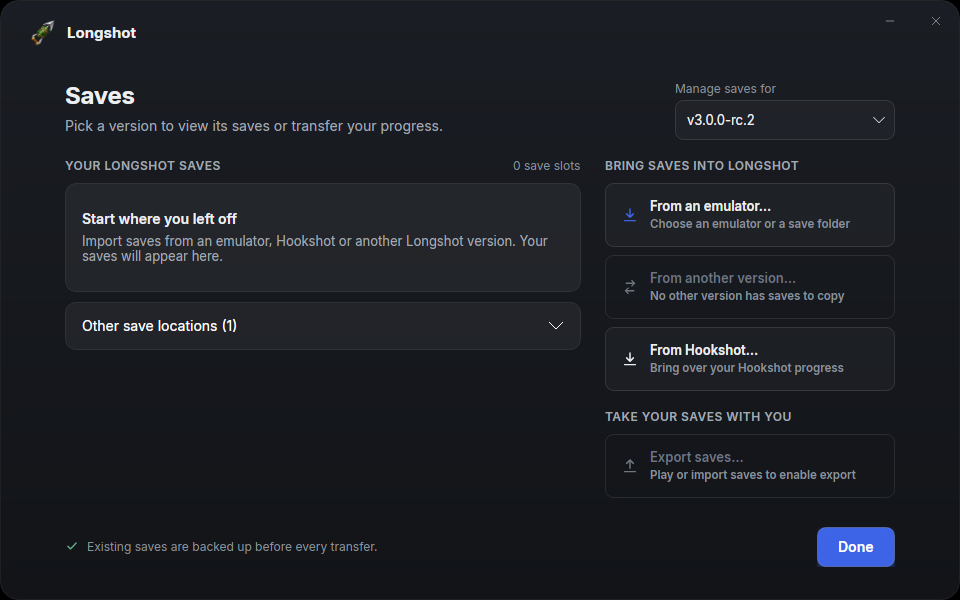
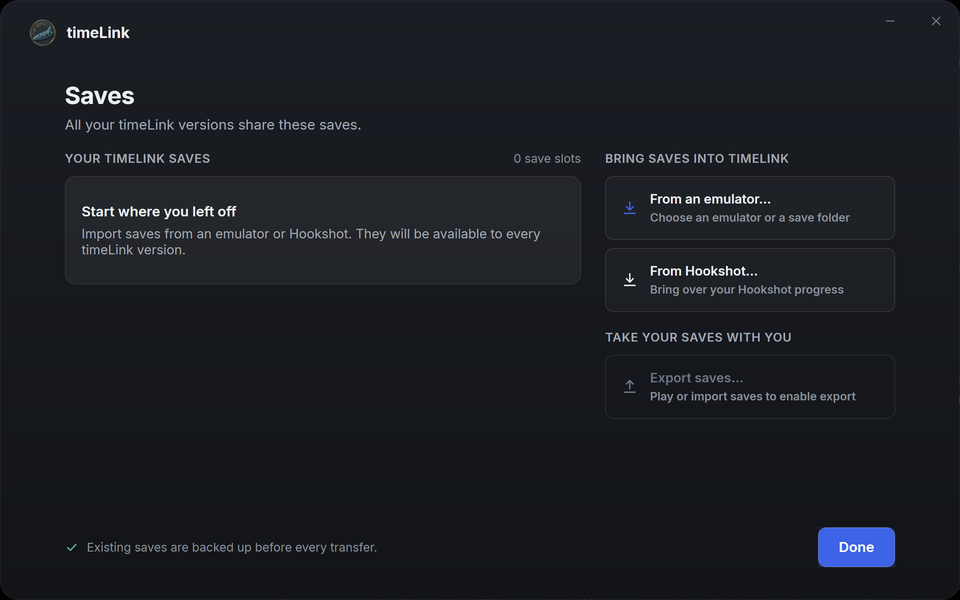
docs(launcher): the screenshots show this launcher, not the old Longshot
Every picture under launcher/docs/ was taken before the rename: the title bar read 'Longshot', the icon was the old bean, and the pages had moved on. Taken again from a running launcher, each on its own isolated home and profile (TIMELINK_LAUNCHER_HOME, USERPROFILE, APPDATA and LOCALAPPDATA pointed at a scratch folder), so no build, save or folder of this PC is in any of them.

The nine in docs/screenshots/ had never been linked from anything since they were added. Five were taken again and are now shown in docs/saves.md, which tells players what the Saves page does. The other five are gone rather than replaced: the requirements verdict is read from the hardware the launcher runs on with nothing to override it, so its four colour states cannot be produced on one PC, and the Linux Saves page needs Linux. Nothing links to a deleted picture.

launcher/CONTRIBUTING.md now says where the pictures must be taken from, and docs/known-issues.md records the change.

diff --git a/docs/known-issues.md b/docs/known-issues.md
@@ -180,6 +180,7 @@ invisible — the install then fails on a tool the lock appears to list. BOMs we
 |---|---|
 | | **`HookshotSaves.cs` / `HookshotSettings.cs`: a real adaptation, not a rename** | Correcting an earlier note that called these untouched. They read Hookshot's layout and write timeLink's: `TargetFiles` is `timeLink_options.ini` and `language.txt`, never a `hookshot*` name; `Merge` keeps the build's own lines and re-writes the marker so timeLink migrates the imported rows as it would Hookshot's, with a `Migrated` table of which rows moved at which version. Wired into the UI (`HookshotImportViewModel`, `HookshotSettingsViewModel`) and covered by 64 core checks: preview, a running game refused, consent before replacing, a backup of the whole old file, the source left byte-identical. Nothing left to adapt. What was missing was a guard on the one number they share with the game, now added: `tests/test_hookshot_options_version.py` fails if `gpu/vk/vk_menu.cpp` starts writing a version `HookshotSettings.cs` was not checked against, if Hookshot's accepted ceiling moves, or if a `Migrated` row names a later version than the game has |
 | **Icon and branding assets** | `Assets/timeLink.ico` and `timeLink.png` are timeLink's own artwork, supplied by HanYolo1 on 2026-11-16 and replacing the Longshot logo that came with the fork. `launcher/scripts/make_icon.py` regenerates the launcher's `.ico` from the png, and `nx2/make_icon.py` the builder setup's (`builder/setup/timeLink.ico`, which `tests/test_setup_icon.py` holds to the logo). `assets/PROVENANCE.md` records the origin and what replacing it again takes. The `assets/branding/` images that came with the fork (the bean characters and the team logo) were deleted: they were website-only, unlicensed, and their provenance file wrongly described them as supplied by this fork's maintainer |
+| **The launcher screenshots** | Every picture in `launcher/docs/` was taken before the rename and showed the old logo and "Longshot" in the title bar. All of them have been taken again from a running launcher on an isolated home (`launcher/CONTRIBUTING.md` says how). The four `requirements-*.png` and `saves-linux.png` were deleted rather than replaced: the requirements verdict is read from the hardware the launcher runs on, with nothing to override it, so its four states cannot be produced on one PC, and the Linux Saves page needs Linux. Nothing links to a deleted picture |
 | **No CDN** | `CdnFetcher` was deleted (it fronted MagicBeanDev's Cloudflare edge). Release files and lists now come from GitHub directly. No replacement is needed, but a slow GitHub is not cached |
 | **Shaders are not forced by the launcher** | The launcher passes no `--compile-shaders`, so the level comes from `make_game.py`'s default or the build folder's own `compile_shaders=`. It works (`most`), but an explicit flag would make the choice visible in the command line and immune to a future change of default |
 | **Fixtures name a key that is not trusted** | `launcher/tests/fixtures/release/test-key.pem` is deliberately public; `ReleaseKeys.BuiltIn` is asserted not to list it |

diff --git a/launcher/CONTRIBUTING.md b/launcher/CONTRIBUTING.md
@@ -45,6 +45,17 @@ to it too.
 - **Packages are pinned.** `Directory.Packages.props` pins each package exactly and `packages.lock.json` records what
   they bring; CI restores in locked mode. A package change updates the lock files in the same pull request.
 - **Two platforms.** Windows and Linux (and the Steam Deck) from the same code; keep paths portable and UTF-8.
+- **The screenshots are the launcher's own, and go stale quietly.** `docs/images/` (the home, Settings, and the two
+  Hookshot imports, shown in [README.md](README.md)) and `docs/screenshots/` (the Saves page, shown in
+  [docs/saves.md](docs/saves.md)) are of a running launcher: nothing generates them and no test can tell that one has
+  drifted from the window it shows. Take them again in a change that moves a screen, a word on it or the logo. What they
+  must be taken from: a launcher home and a user profile of their own (`TIMELINK_LAUNCHER_HOME`, `USERPROFILE`,
+  `APPDATA` and `LOCALAPPDATA` pointed at a scratch folder), so no real build, save or folder of yours is in the picture;
+  `docs/images/` at 1100x720 or 960x600, `docs/screenshots/` at 960x600. Nothing of a real copy of the game may be in one
+  (the Files step lists every `.nup` it found on the PC, with its folder), so a screen that shows a real dump is not
+  published. The four requirements states (`requirements-*.png`) and the Linux Saves page (`saves-linux.png`) were
+  removed for that reason: the states come from the hardware the launcher is running on, with nothing to override them,
+  so they cannot be reproduced on one PC and would always be at least half wrong.
 
 ## Commits and pull requests
 

diff --git a/launcher/docs/saves.md b/launcher/docs/saves.md
@@ -24,6 +24,20 @@ has a `user/` of its own: the game moves an old one into the shared folder by it
 game also finds that folder by itself; on Windows a build started on its own (`bin\timeLink.exe` double-clicked) still keeps
 its saves in its own folder's `user\`, and the launcher brings them in at its next start (below).
 
+The **Saves** page, with no saves yet and with six:
+
+<p align="center">
+  <img src="screenshots/saves-empty.png" alt="The Saves page with no saves: Start where you left off, and the way in from an emulator or Hookshot" width="480">
+  <img src="screenshots/saves-layout.png" alt="The Saves page with six saves, each with its slot and when it was saved" width="480">
+</p>
+
+More than fits the page scrolls (*Other save locations* under the list names every emulator a save was found in):
+
+<p align="center">
+  <img src="screenshots/saves-slots-scrolled.png" alt="The Saves page scrolled past the first slots: Slot 6 to Slot 14" width="480">
+  <img src="screenshots/saves-sources.png" alt="The Saves page with Other save locations open, naming NX2navi" width="480">
+</p>
+
 The game settings (`timeLink_options.ini`: the Insert menu's choices and your controls) are in the same folder once a build
 that keeps them there has run. Before Play, a build that has none of its own, such as an update into a new folder, gets the
 newest settings of your other versions, its own Compile shaders choice kept.

diff --git a/launcher/README.md b/launcher/README.md
@@ -211,7 +211,7 @@ dotnet run --project App
 | `tests/` | `test_launcher_core.py` (builds `launcher_core/`, which compiles `Core/` and checks it), `test_release.py` (`scripts/release.py`), `fixtures/` (signed test releases, fake Hookshot saves) |
 | `scripts/` | `package.sh` (both release programs, from Linux), `make_icon.py` (`App/Assets/timeLink.ico` from the logo), `release.py` (the signed release files, the keys, the uploads; the same file as timeLink's), `translations.py` (the window's texts against each catalog) |
 | `.github/workflows/` | `launcher.yml` (compile and test, on a change that touches `launcher/`), `build-launcher.yml` (the release programs, called by `release.yml`) |
-| `docs/` | [releases.md](docs/releases.md), [saves.md](docs/saves.md), and the screenshots in this README |
+| `docs/` | [releases.md](docs/releases.md), [saves.md](docs/saves.md) (with the Saves page's screenshots), and the screenshots in this README |
 
 ### Environment and command line
 
